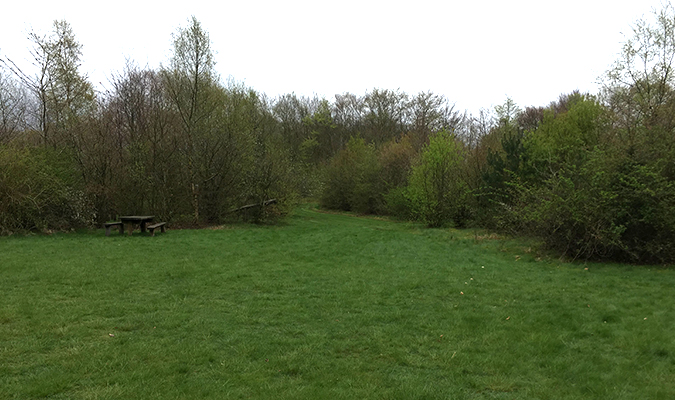
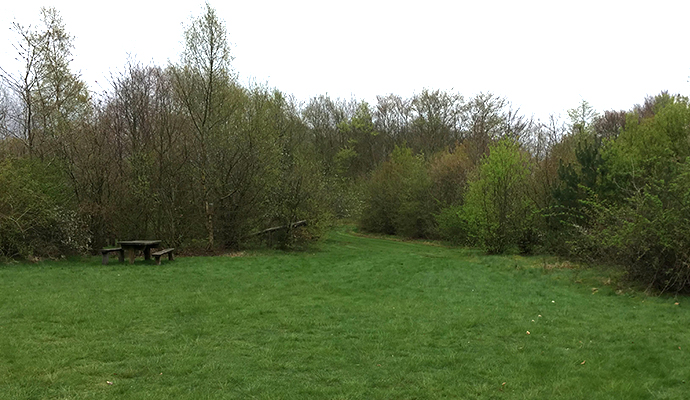
Formatted images

diff --git a/attractions.html b/attractions.html
@@ -27,20 +27,20 @@
         <h1 class="subpage-h1">Seværdigheder</h1>
 
         <article class="content-container flex wrap">
+          <div class="content-box">
+            <img src="assets/images/forest.jpg" alt="">
+        </div>
         <div class="content-box">
           <div class="content-text">
             <h2>
               En Stor Skov
             </h2>
             <p class="p-text">
-            Næsten lige uden for din dør vil du finde en pragtfuld og stor skov. Den er perfekt til at gå ture i, også med hund. Mange beboer i Vrøgum nyder skoven. Inde i skoven vil du finde lille park, kaldet Ballonparken, hvor der mulighed for at slappe af med børnene eller lade dem lege på de redskaber som står til rådighed. Det er også muligt at grille under overdækning.
-            <br/>
-            Du kan være heldig at der er arrangementer du kan deltage i. Der er nogle gange om året musik arrangementer som alle kan deltage gratis i. Der er mad, øl, og vand som man kan købe.
+              Næsten lige uden for din dør vil du finde en pragtfuld og stor skov. Den er perfekt til at gå ture i, også med hund. Mange beboer i Vrøgum nyder skoven. Inde i skoven vil du finde lille park, kaldet Ballonparken, hvor der mulighed for at slappe af med børnene eller lade dem lege på de redskaber som står til rådighed. Det er også muligt at grille under overdækning.
+              <br/>
+              Du kan være heldig at der er arrangementer du kan deltage i. Der er nogle gange om året musik arrangementer som alle kan deltage gratis i. Der er mad, øl, og vand som man kan købe.
             </p>
           </div>
-        </div>
-          <div class="content-box">
-            <img src="assets/images/forest.jpg" alt="">
         </div>
 
         <div class="content-box">

diff --git a/assets/css/master.css b/assets/css/master.css
@@ -85,6 +85,10 @@ h1 {
   text-align: center;
 }
 
+.subpage-h1 {
+  margin-top: 50px;
+}
+
 h2 {
   font-family: 'georgia', serif;
   font-size: 2em;
@@ -104,14 +108,13 @@ h3 {
 
 
 .content-box {
-  margin-top:;
-  width: 675px;
+  width: 690px;
   height: 400px;
   margin-top: 100px;
 }
 
 .img {
-  width: 675px;
+  width: 690px;
 }
 
 .p-text {
